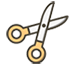
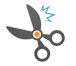
Se cambio el icono borrar y se agrego la flecha

diff --git a/ProyectoV1/src/Clases_Figura/Estilos/Estilos.css b/ProyectoV1/src/Clases_Figura/Estilos/Estilos.css
@@ -34,6 +34,16 @@ and open the template in the editor.
 }
 
 
+.limpiar{
+    -fx-border-radius: 0px;
+    -fx-background-color: transparent;
+    -fx-graphic: url('/Clases_Figura/Estilos/Limpiar.png');  
+}
+.limpiar:hover{
+    -fx-background-color: #e3dbc7;
+}
+
+
 .flujo{
     -fx-border-radius: 0px;
     -fx-background-color: transparent;

diff --git a/ProyectoV1/src/Clases_Figura/Flujo.java b/ProyectoV1/src/Clases_Figura/Flujo.java
@@ -54,6 +54,21 @@ public class Flujo {
         this.setY2(y2);
         cuadro.setStroke(Color.valueOf("#353333"));
         cuadro.strokeLine(x,y, x2,y2);
+
+        double angle = Math.atan2((y2 - y), (x2 - x)) - Math.PI / 2.0;
+        double sin = Math.sin(angle);
+        double cos = Math.cos(angle);
+        double fx = (- 1.0 / 2.0 * cos + Math.sqrt(3) / 2 * sin) * 9.0 + x2;
+        double fy = (- 1.0 / 2.0 * sin - Math.sqrt(3) / 2 * cos) *  9.0 + y2-4;
+        double fx2 = (1.0 / 2.0 * cos + Math.sqrt(3) / 2 * sin) *  9.0 + x2;
+        double fy2 = (1.0 / 2.0 * sin - Math.sqrt(3) / 2 * cos) *  9.0 + y2-4;
+   
+        cuadro.strokeLine(fx,fy, fx2,fy2);
+        cuadro.strokeLine(fx,fy, x2,y2-4);
+        cuadro.strokeLine(fx2,fy2, x2,y2-4);
+        
+        
+        
     }
    
 }

diff --git a/ProyectoV1/src/proyectov1/FXMLDocumentController.java b/ProyectoV1/src/proyectov1/FXMLDocumentController.java
@@ -186,12 +186,6 @@ public class FXMLDocumentController implements Initializable {
     private void dibujarEtapa(ActionEvent event) throws Exception {
         GraphicsContext cuadro = lienzo.getGraphicsContext2D();
         Etapa etapa = new Etapa();
-        /*
-        NotificacionController ventana = new NotificacionController();
-        ventana.popUp();
-        etapa.setTextoFigura(texto);
-         */
-        //String respuestaEtapa = JOptionPane.showInputDialog("Ingrese texto: ");
         TextInputDialog dialog = new TextInputDialog();
             dialog.setTitle("Text de etapa.");
             dialog.setHeaderText("");
